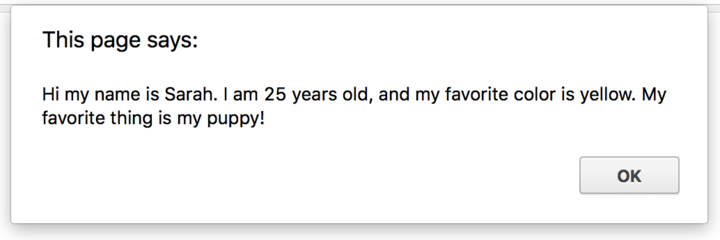
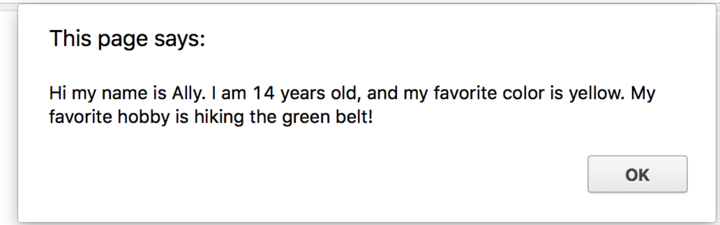
fixes

Changed region(s): [[0.0, 0.0, 1.0, 1.0], [0.0611, 0.3422, 0.9472, 0.56], [0.0611, 0.1244, 0.3056, 0.2178]]

diff --git a/script.js b/script.js
@@ -9,11 +9,12 @@
 
 
 
+
 ///////////////YOUR VARIABLES SHOULD BE ABOVE THIS LINE////////////////////
 
 //////////////////////DO NOT CHANGE THE CODE BELOW//////////////////////////
 document.addEventListener('DOMContentLoaded', function() {
 
-  alert("Hi my name is " + myName + ". I am " + myAge + " years old, and my favorite color is " + myFavoriteColor + ". My favorite thing is " + myFavoriteHobby + "!")
+  alert("Hi my name is " + myName + ". I am " + myAge + " years old, and my favorite color is " + myFavoriteColor + ". My favorite hobby is " + myFavoriteHobby + "!")
 
 })
